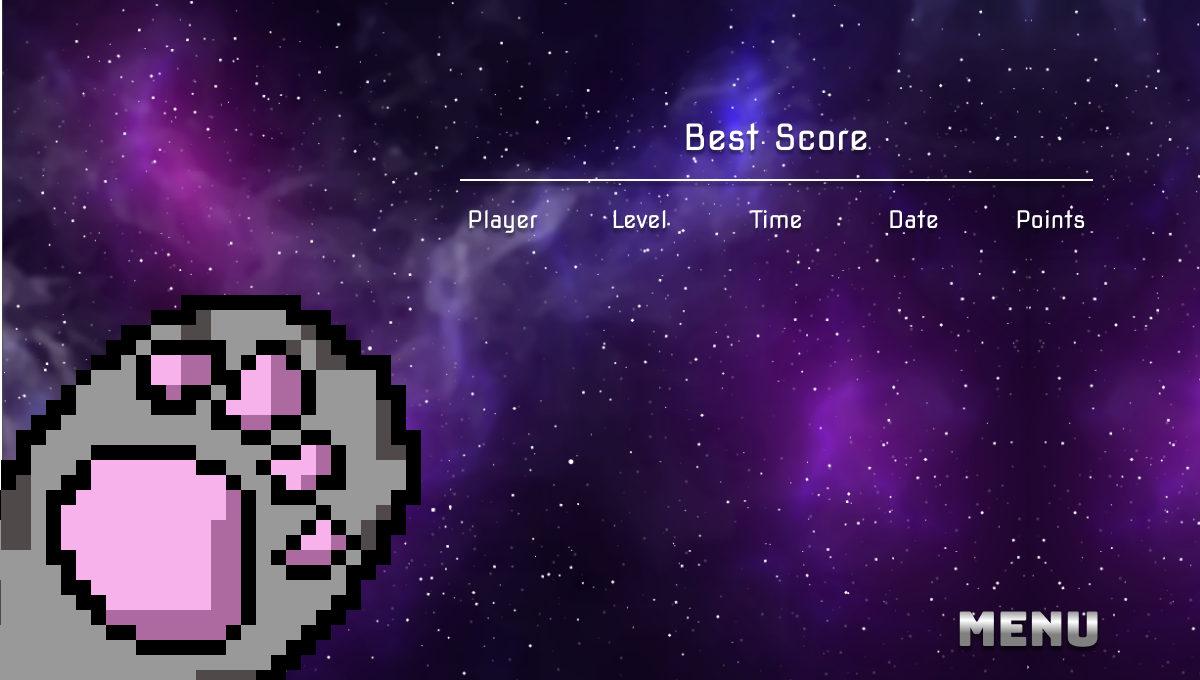
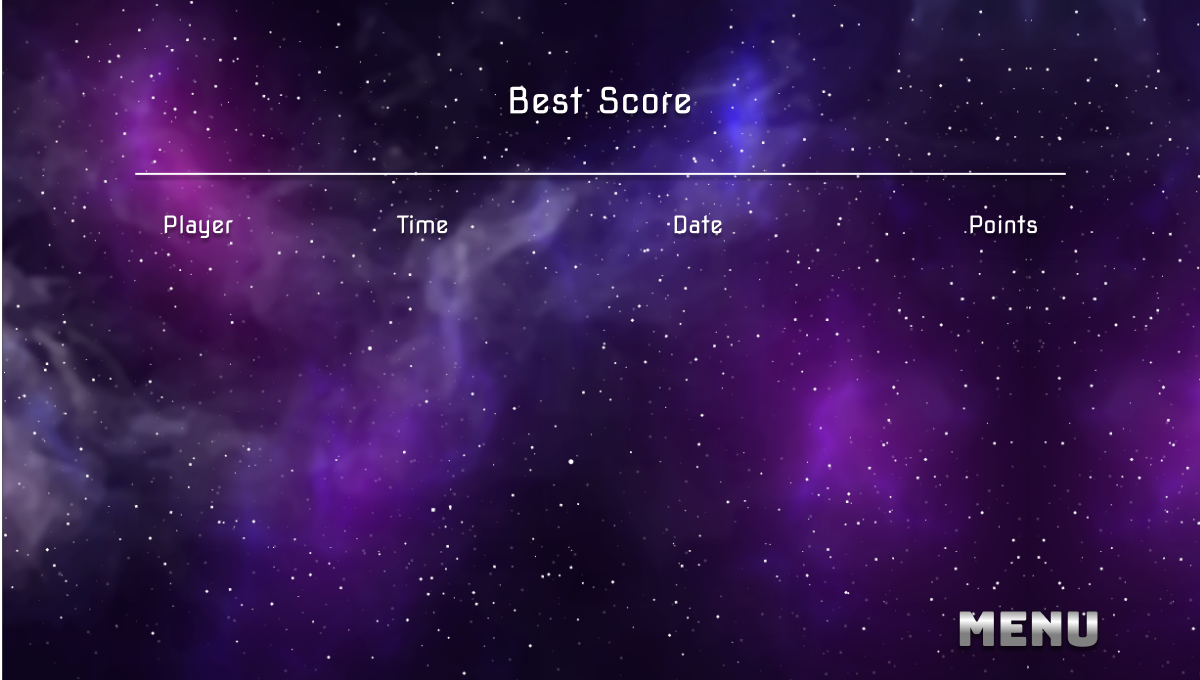
Time and Score

diff --git a/PlantillaJuego/src/Model/player.java b/PlantillaJuego/src/Model/player.java
@@ -9,30 +9,30 @@ import processing.core.PApplet;
 public class player implements Comparable<player> {
 
 	private PApplet app;
-	
+
 	private String name;
 	private Date date;
 	private String date2, time;
 	private int score;
- 	
-	public player(String name, Date date, String time, int score,PApplet app) {
-		this.score=score;
-		this.app=app;
-		this.name=name;
-		this.date=date;
-		this.time=time;
-		
+
+	public player(String name, Date date, String time, int score, PApplet app) {
+		this.score = score;
+		this.app = app;
+		this.name = name;
+		this.date = date;
+		this.time = time;
+
 		SimpleDateFormat formato = new SimpleDateFormat("dd-MM-yyyy hh:mm:ss");
 		date2 = formato.format(date);
 	}
-	
+
 	public void drawData(int x, int y) {
 		app.fill(0);
 		app.textSize(15);
 		app.text(name, x, y);
-		app.text(date2, x+ 45*4, y );
-		app.text(time, x+ 120*4, y );
-		app.text(score, x+ 180*4, y);
+		app.text(date2, x + 454, y);
+		app.text(time, x + 204, y);
+		app.text(score, x + 200 * 4, y);
 
 	}
 
@@ -68,11 +68,10 @@ public class player implements Comparable<player> {
 		this.time = time;
 	}
 
-
 	@Override
 	public int compareTo(player o) {
-		
-		return o.getScore()-this.score;
+
+		return o.getScore() - this.score;
 	}
 
 	public int getScore() {
@@ -83,5 +82,4 @@ public class player implements Comparable<player> {
 		this.score = score;
 	}
 
-	
 }

diff --git a/PlantillaJuego/src/Model/Logic.java b/PlantillaJuego/src/Model/Logic.java
@@ -106,7 +106,7 @@ public class Logic {
 		}
 		app.fill(255);
 		app.textSize(40);
-		app.text("Score: "+ score, 700, 750);
+		app.text("Score: "+ score, 300, 50);
 	}
 
 	public void fallRevy(boolean c) {
@@ -191,7 +191,7 @@ public class Logic {
 		}
 		app.fill(255);
 		app.textSize(40);
-		app.text("Time: "+ min + ":" + seg, 400, 750);
+		app.text("Time: "+ min + ":" + seg, 100,50);
 	}
 
 	public void loseGame(){
